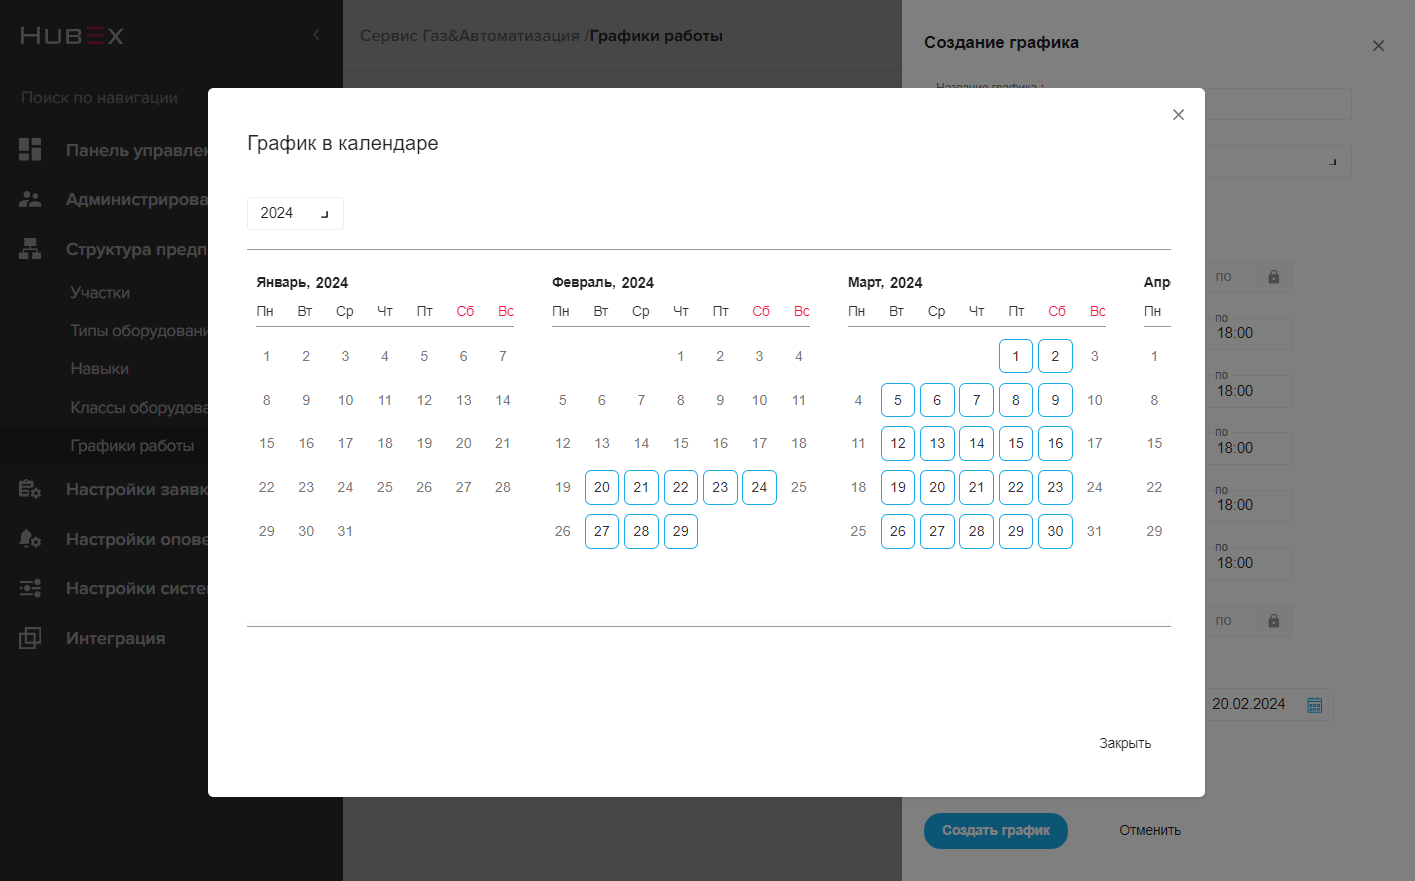
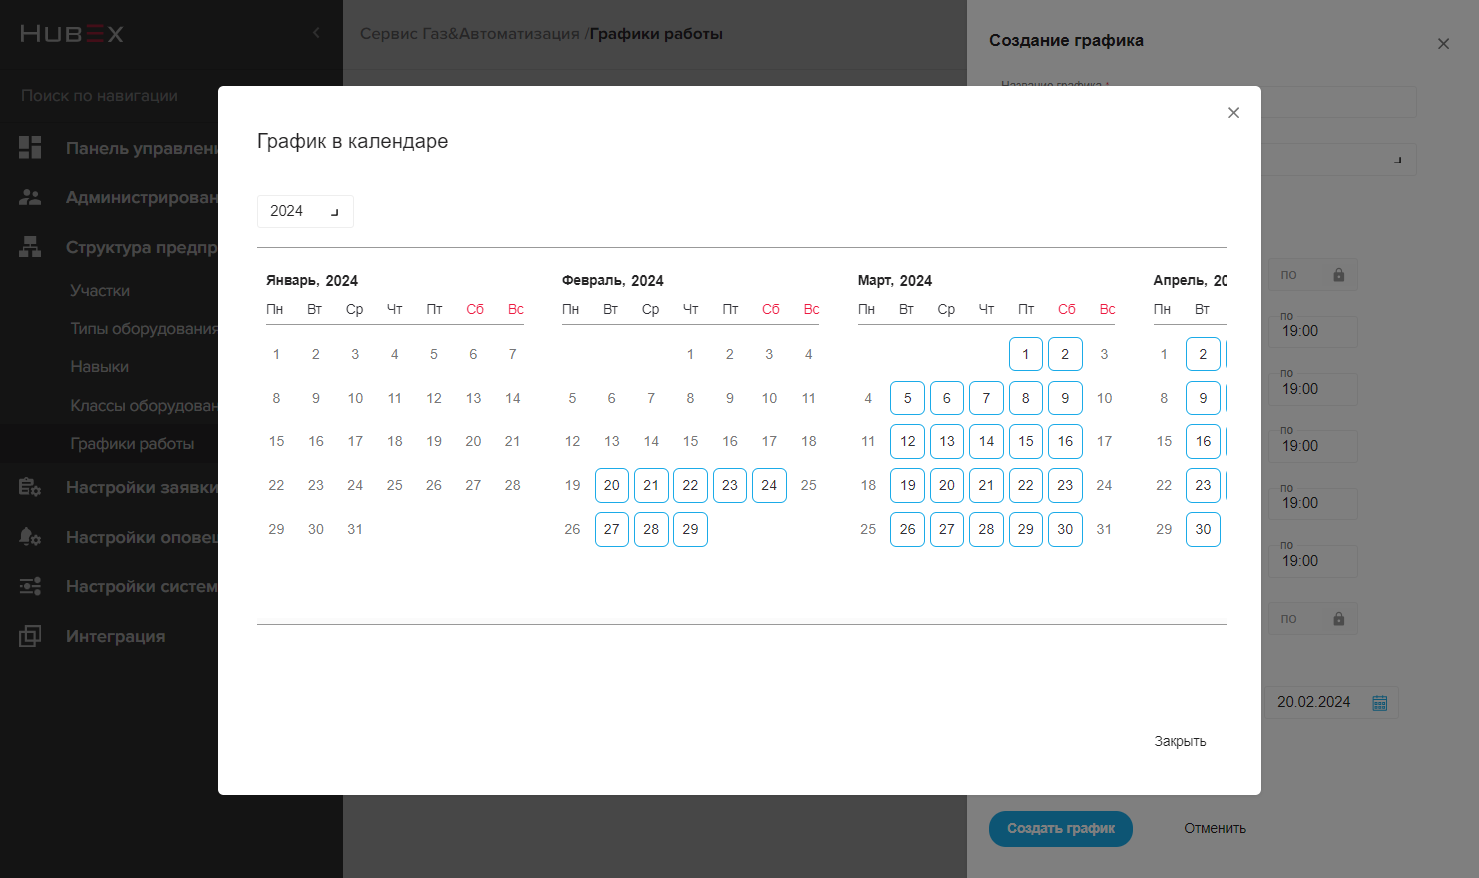
настройка графиков

diff --git a/docs/FAQ/RU/admin/WorkSchedule.md b/docs/FAQ/RU/admin/WorkSchedule.md
@@ -71,17 +71,16 @@ keywords: график работы, графики работы, расписа
 
     <div>
         <img style="margin: 0 auto; display: block; max-width: 90%;"
-             src="/attachments/images/FAQ/ADMIN/WorkSchedule/.jpg"/>
+             src="/attachments/images/FAQ/ADMIN/WorkSchedule/Schedule2.jpg"/>
     </div>
 
     <li>установите дату начала действия текущего графика с помощью флажка <strong>Назначить дату начала
         календаря</strong>: этот пункт не является обзательным для выполнения, если дату начала не задать, то по
-        умолчанию график будет работать со дня его создания в системе. Например, график работы начнет действовать только
-        с начала следующего месяца 1 марта 2024 года;
+        умолчанию график будет работать со дня его создания в системе. Например, график работы начнет действовать с 20 февраля 2024 года;
     </li>
     <div>
         <img style="margin: 0 auto; display: block; max-width: 90%;"
-             src="/attachments/images/FAQ/ADMIN/WorkSchedule/.jpg"/>
+             src="/attachments/images/FAQ/ADMIN/WorkSchedule/Schedule22.jpg"/>
     </div>
 
     <li>проверьте отображение графика по кнопке <strong>Показать график в календаре</strong>: в новом окне
@@ -90,14 +89,14 @@ keywords: график работы, графики работы, расписа
     </li>
     <div>
         <img style="margin: 0 auto; display: block; max-width: 90%;"
-             src="/attachments/images/FAQ/ADMIN/WorkSchedule/.jpg"/>
+             src="/attachments/images/FAQ/ADMIN/WorkSchedule/Schedule3.jpg"/>
     </div>
 
     <li>нажмите кнопку <strong>Создать график</strong>.</li>
 
     <div>
         <img style="margin: 0 auto; display: block; max-width: 90%;"
-             src="/attachments/images/FAQ/ADMIN/WorkSchedule/.jpg"/>
+             src="/attachments/images/FAQ/ADMIN/WorkSchedule/Schedule4.jpg"/>
     </div>
 </ol>
 
@@ -107,8 +106,12 @@ keywords: график работы, графики работы, расписа
 
 <div>
     <img style="margin: 0 auto; display: block; max-width: 90%;"
-         src="/attachments/images/FAQ/ADMIN/WorkSchedule/.jpg"/>
+         src="/attachments/images/FAQ/ADMIN/WorkSchedule/Schedule5.jpg"/>
 </div>
+<p><div>
+    <img style="margin: 0 auto; display: block; max-width: 90%;"
+         src="/attachments/images/FAQ/ADMIN/WorkSchedule/Schedule6.jpg"/>
+</div></p>
 
 <!--<h5 id="shift">Создание сменного графика работы</h5>
 
